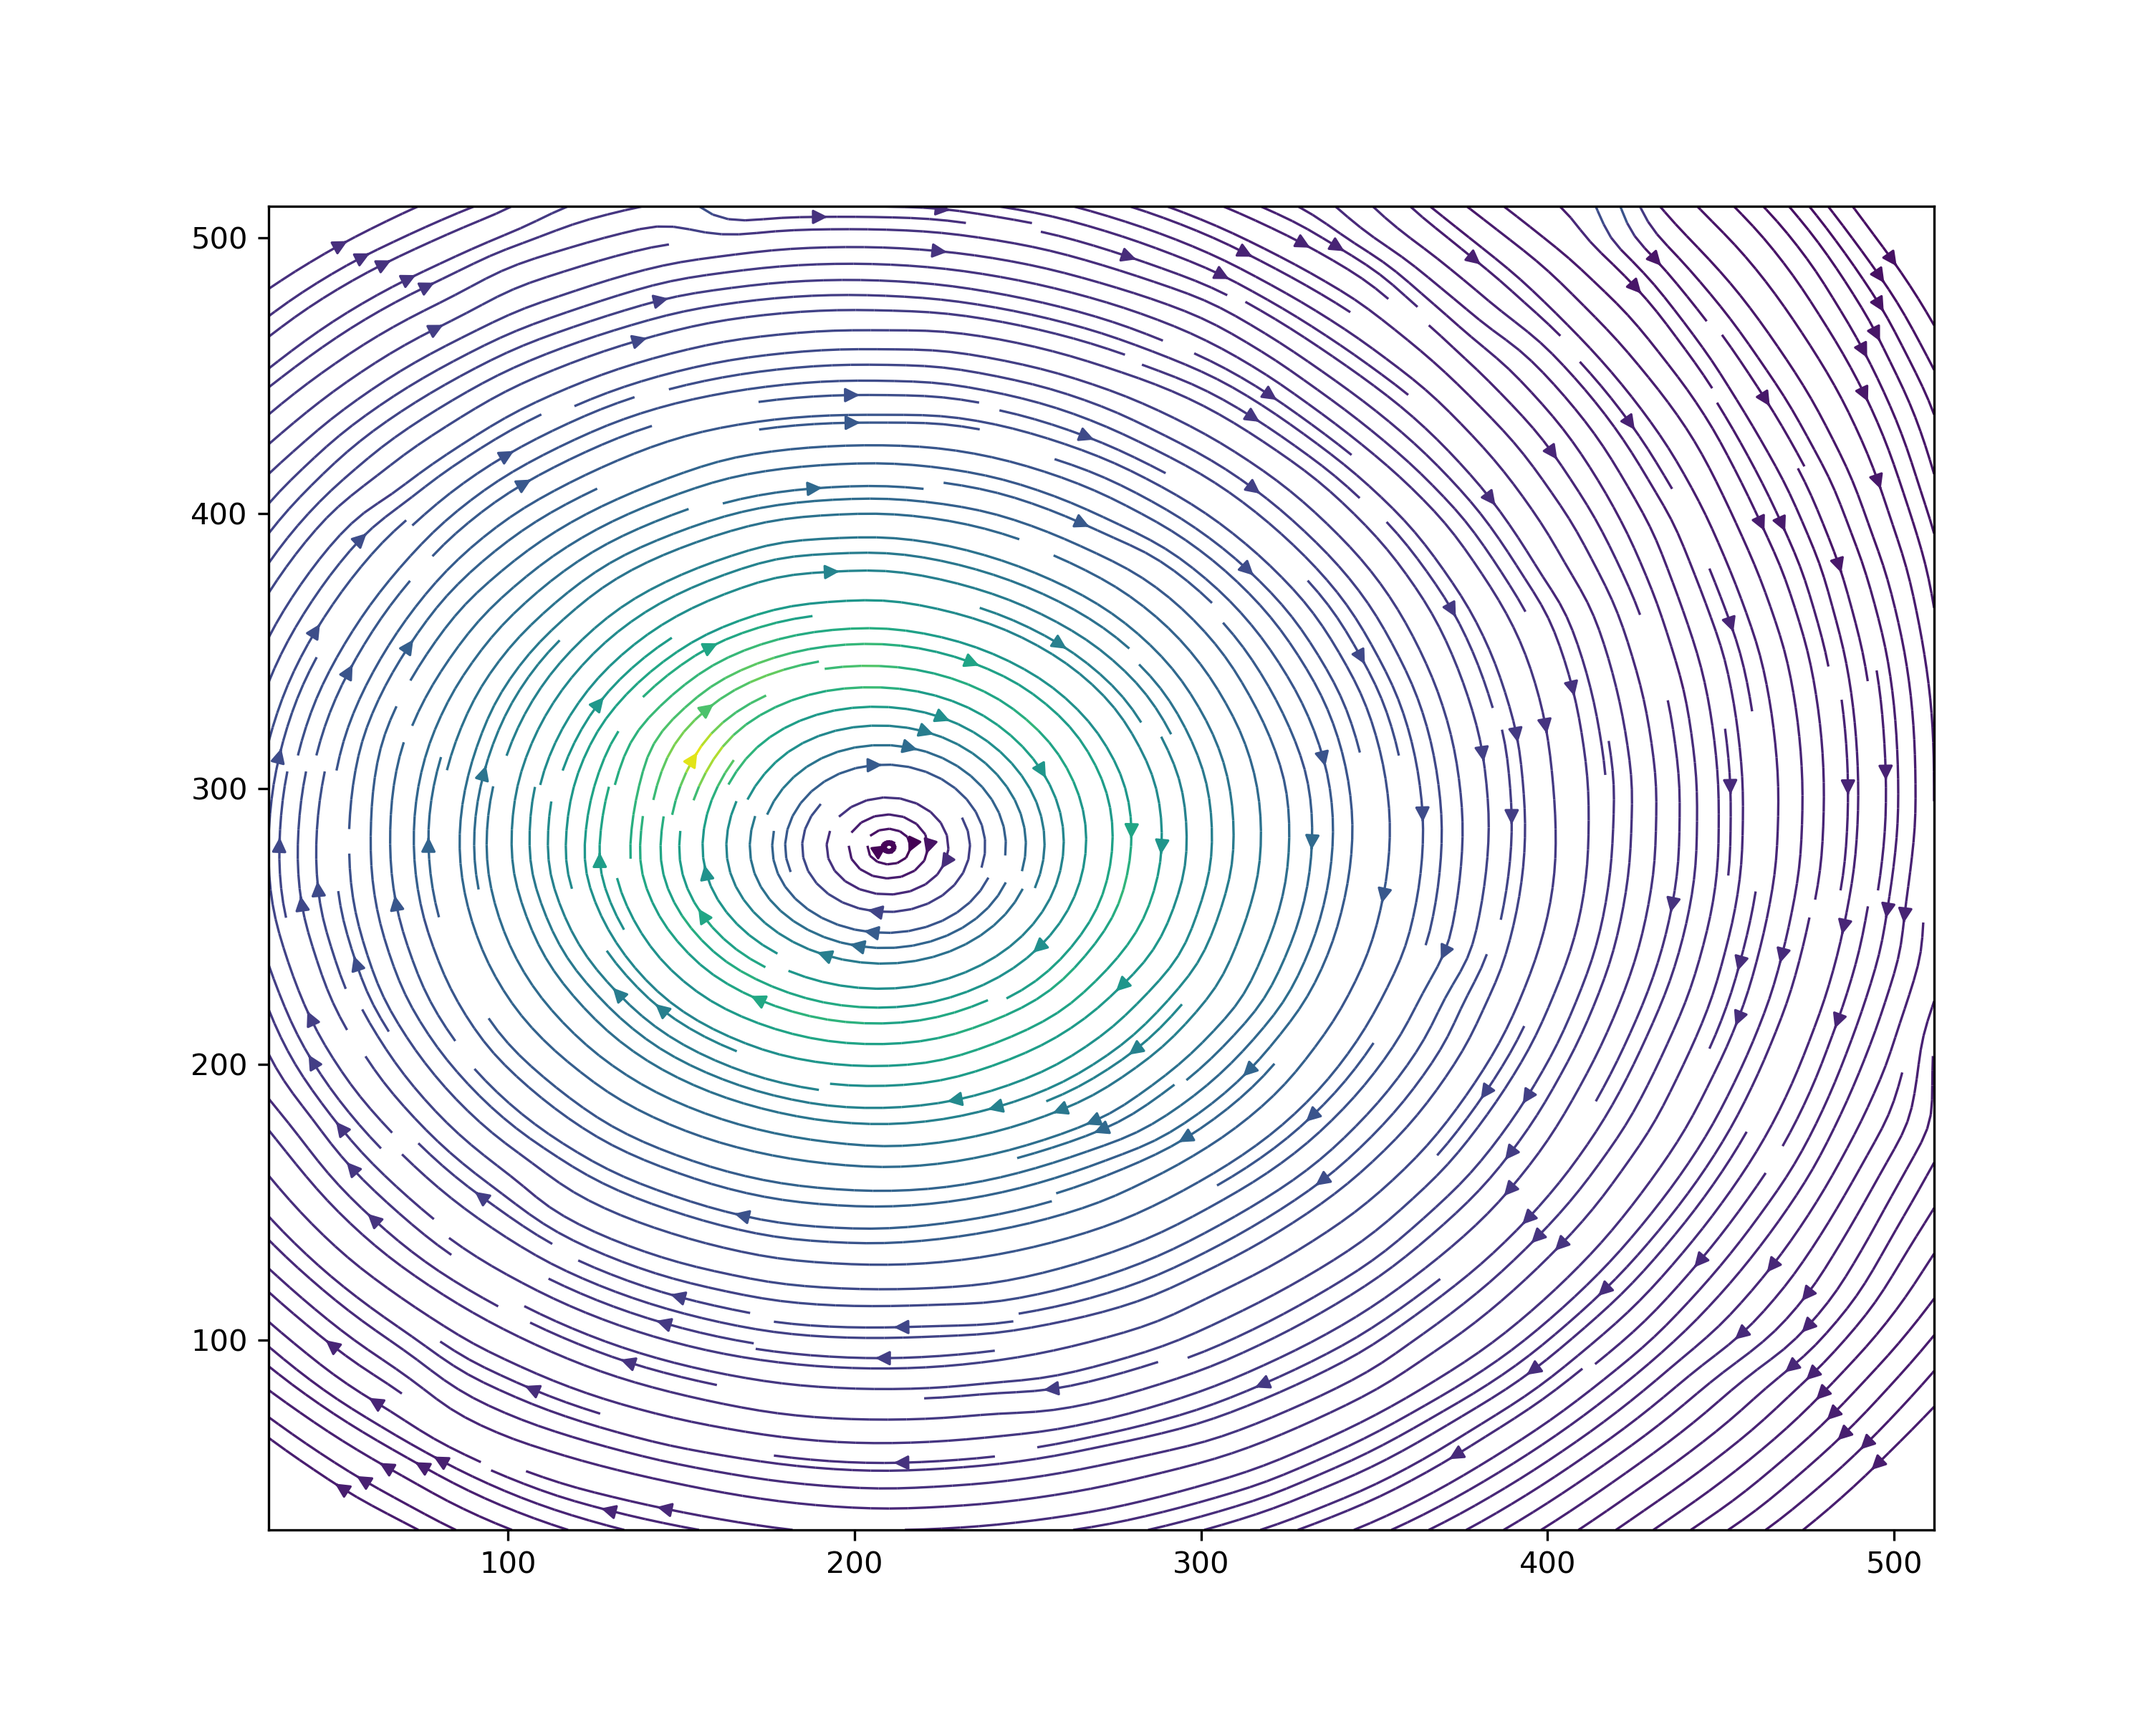
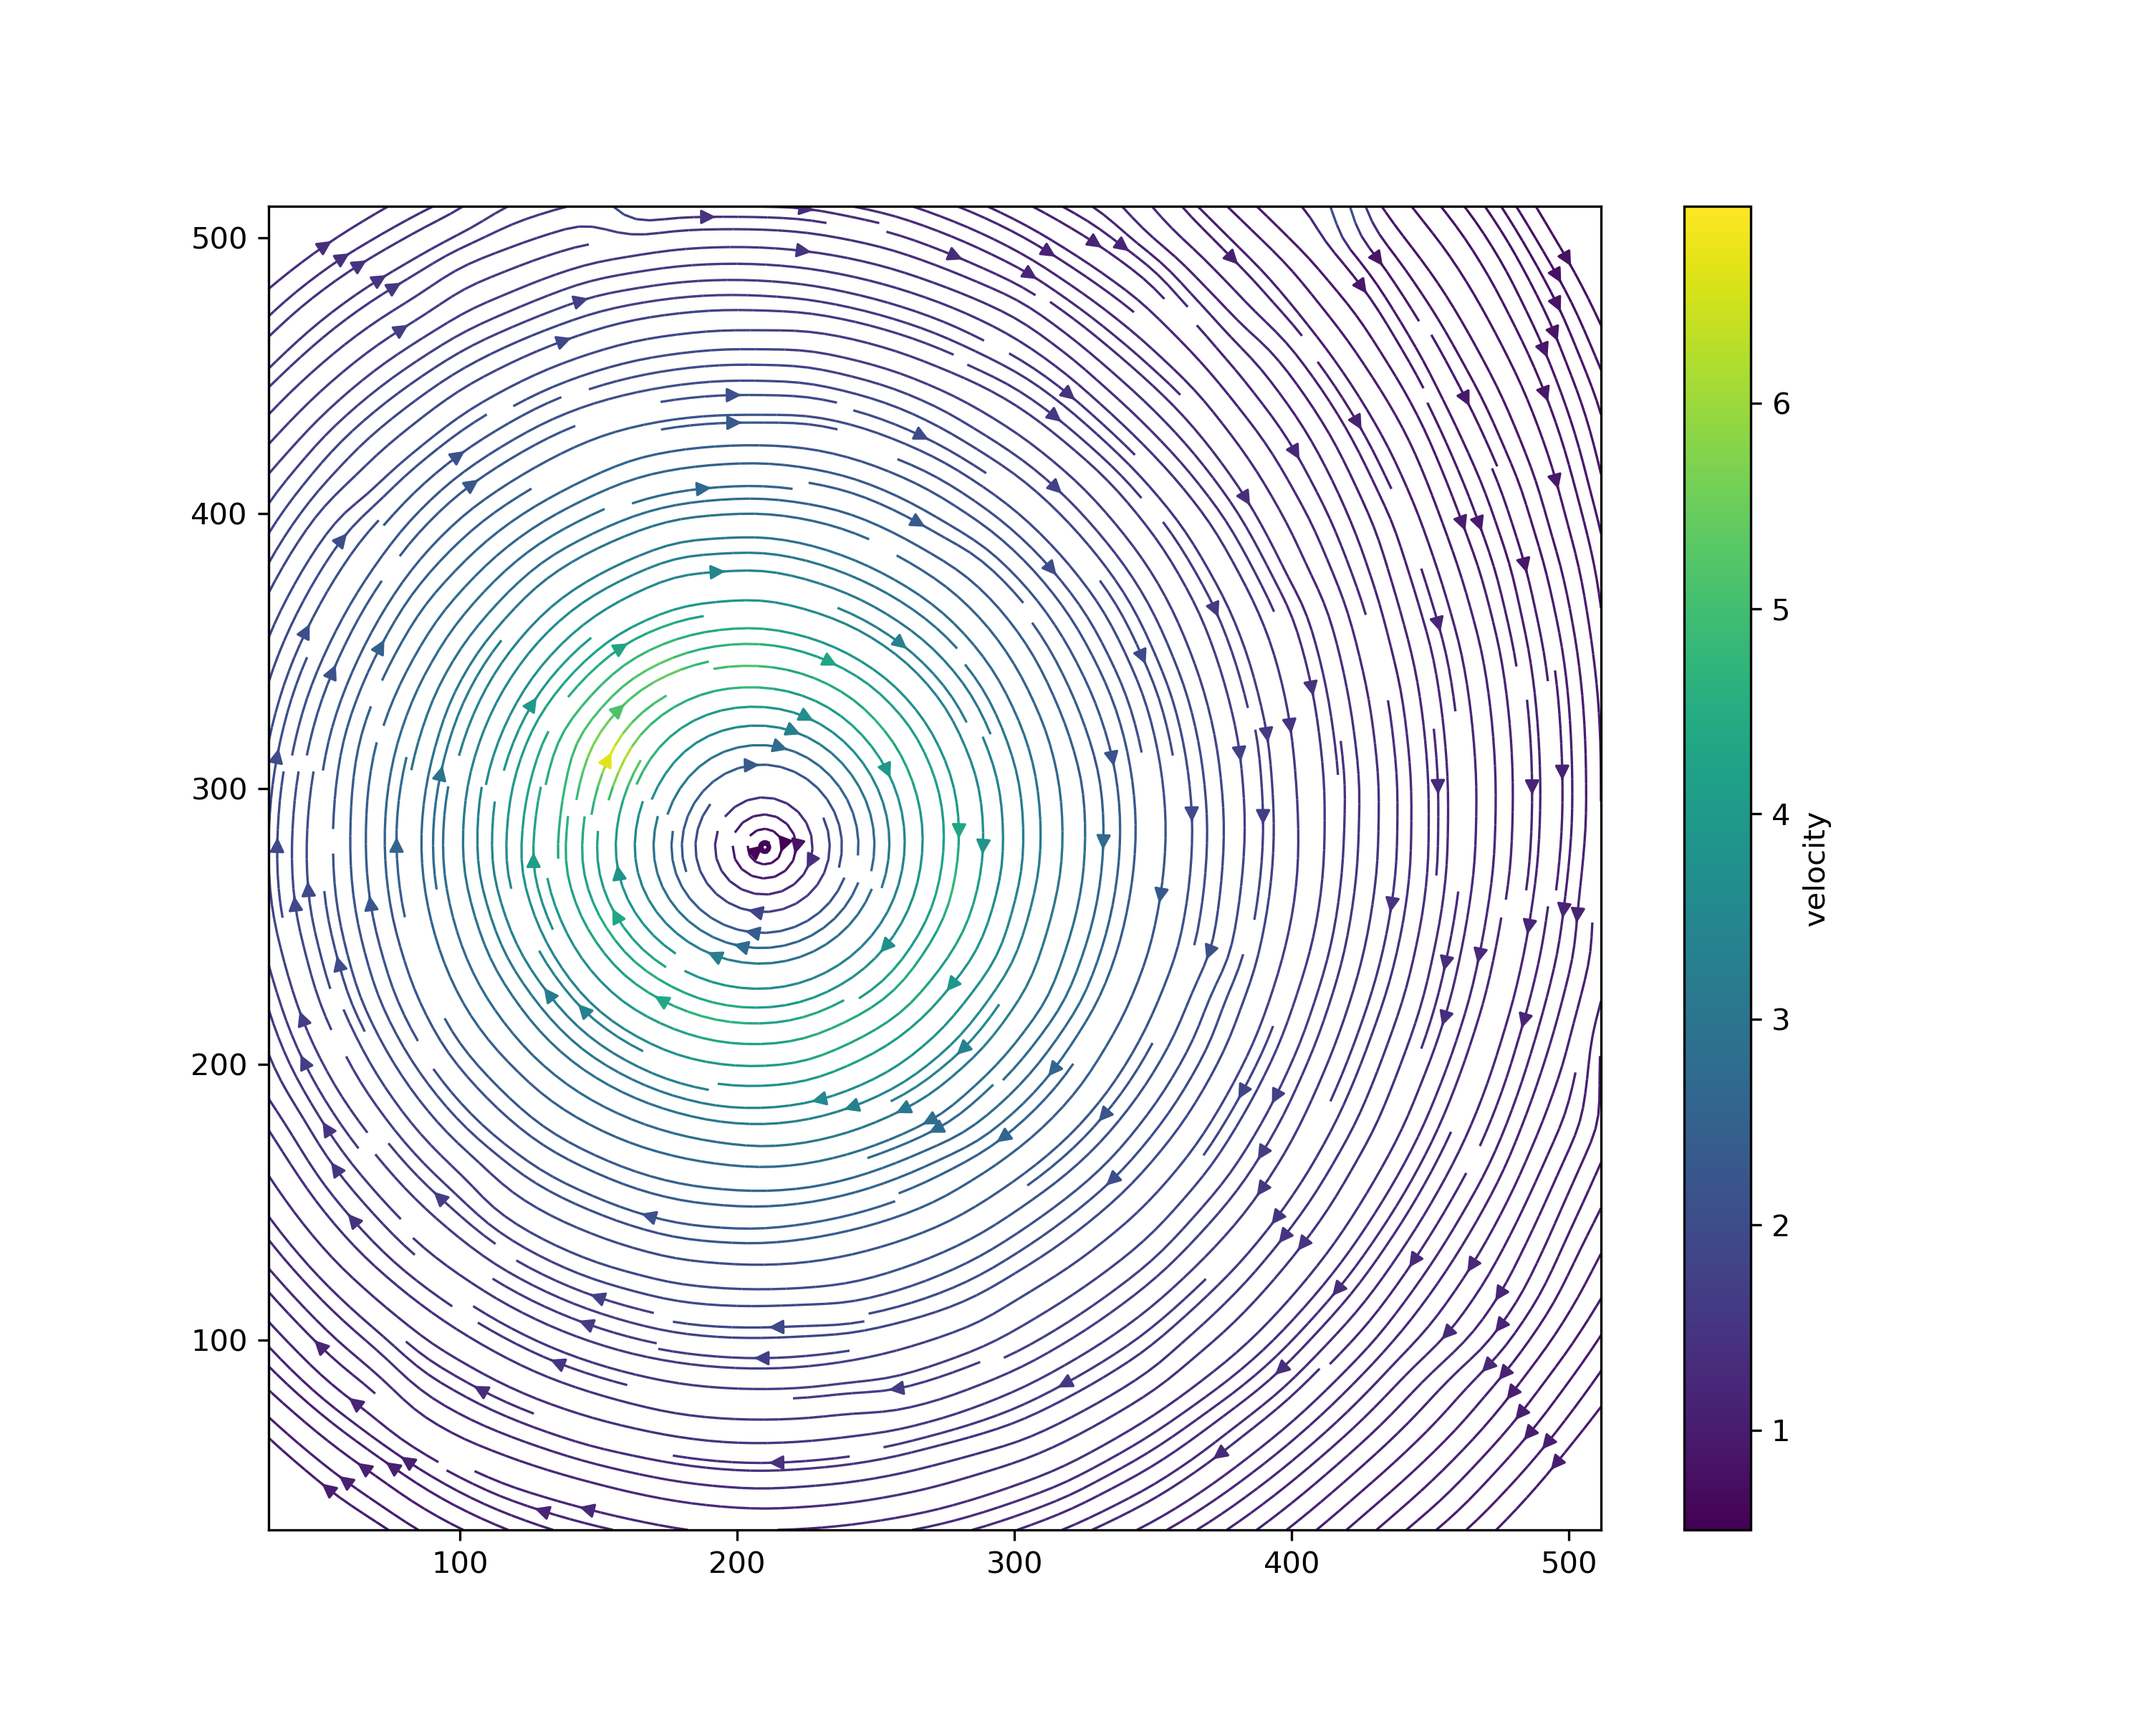
updated readme file

Changed region(s): [[0.124, 0.0938, 0.899, 0.9375], [0.868, 0.875, 0.899, 0.9062]]

diff --git a/main-ncc.py b/main-ncc.py
@@ -176,6 +176,6 @@ plt.savefig(f"{output_dir}/figs/correlation_field.png", dpi=300)
 
 fig, ax = plt.subplots(figsize=(10,8))
 plt.streamplot(X, Y, vecx, vecy, density = 3, linewidth = 0.8, color = vec)
-plt.savefig(f"{output_dir}/figs/streamline.png", dpi=300)
 plt.colorbar(label='velocity')
+plt.savefig(f"{output_dir}/figs/streamline.png", dpi=300)
 plt.show()

diff --git a/README.md b/README.md
@@ -1,13 +1,22 @@
 # torchPIV
 Particle image velocimetery using pyTorch Conv2D modified module to calculate the Normalized Cross-Correlation between different interrogation windows.
+## Motivation
+- It was fun.
+- Getting to know the ins and outs of the pytorch Conv module.
+- Seeing if it would help to make the code get any faster on GPU.
+## pyTorch Conv2D
+The idea came to my mind when I was reading about  Particle Image Velocimetry algorithm and how similar it was to the current modern Convolutional kernels implemented in machine learning packages such as pyTorch. The convolutional neural networks kernels act the same as an Interrogation window with some differences. There are many different methods for weight initializtions on pyTorch and (mostly random initialization) which would get tuned during the training procedure. But in PIV the Interrogation window had to have fixed pixel values from a frame. 
+So it had to be initialized with the pixels defined.
+
+The other difference was the cross-correlation method that was implemented on the conv2D module in pyTorch. 
 ## Validation 
 validation of the results of this algorithm was done with the openPIV software.
 
-The table below shows the results of this algorithm on a free jet injection experiment.
-
+The table below shows the results of this algorithm on case B-5 low particle density and small particle of [pivchallenge.com](http://www.pivchallenge.org/pub/#b). 
 |        Streamline   | Velocity Field | Correlation Field | 
 |:----------:|:-------------:|:-------------:|
 |![](figs/streamline.png)|![](figs/velocity_field.png)|![](figs/correlation_field.png)
 
 The results of the Validation using OpenPIV software with the same Interrogation Window size and same pair of images:
-![](figs/openPIV_31_81.png)
+![](figs/openpiv_test.png)
+
